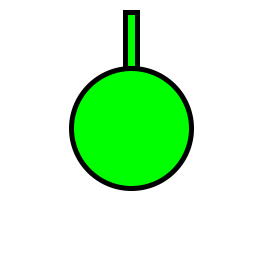
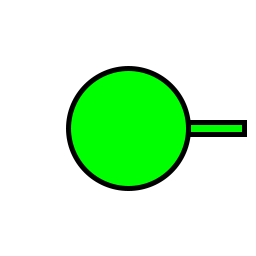
can shoot

Changed region(s): [[0.25, 0.0312, 0.9688, 0.75]]

diff --git a/Assets/BackgroundScript.cs b/Assets/BackgroundScript.cs
@@ -24,19 +24,19 @@ public class BackgroundScript : MonoBehaviour
             if (Mathf.Abs(player.transform.position.x - position[i, j].x) < 0.2f &&
                 Mathf.Abs(player.transform.position.y - position[i, j].y) < 0.2f)
             {
-                transform.position = new Vector3(position[i, j].x, position[i, j].y, 0);
+                transform.position = new Vector3(position[i, j].x, position[i, j].y, 10);
                 NewPosition(position, i, j, 1);
             }
 
             else if (Mathf.Abs(player.transform.position.x - position[i, j].x) < 0.2f)
             {
-                transform.position = new Vector3(position[i, j].x, transform.position.y, 0);
+                transform.position = new Vector3(position[i, j].x, transform.position.y, 10);
                 NewPosition(position, -1, j, 2);
             }
 
             else if (Mathf.Abs(player.transform.position.y - position[i, j].y) < 0.2f)
             {
-                transform.position = new Vector3(transform.position.x, position[i, j].y, 0);
+                transform.position = new Vector3(transform.position.x, position[i, j].y, 10);
                 NewPosition(position, i, -1, 2);
             }
         }

diff --git a/Assets/GoroxScript.cs b/Assets/GoroxScript.cs
@@ -7,9 +7,9 @@ using UnityEngine;
 public class GoroxScript : MonoBehaviour
 {
     public Rigidbody2D rb2D;
-    public GameObject bullet;
     private float speed = 10f;
     private float resist = 0.98f;
+
 
     void Start()
     {
@@ -19,7 +19,6 @@ public class GoroxScript : MonoBehaviour
     {
         Move();
         Rotate();
-        Shoot();
     }
 
 
@@ -38,16 +37,12 @@ public class GoroxScript : MonoBehaviour
     private void Rotate()
     {
         var position = Input.mousePosition - new Vector3(Screen.width / 2, Screen.height / 2, 0);
-        var rotation = Mathf.Atan(position.y / position.x) * 180 / Mathf.PI + 90;
-        if (position.x >= 0)
-            rotation -= 180;
+        var rotation = Mathf.Atan(position.y / position.x) * 180 / Mathf.PI;
+        if (position.x < 0)
+            rotation += 180;
         transform.rotation = Quaternion.Euler(0, 0, rotation);
     }
 
 
-    private void Shoot()
-    {
-        if (Input.GetMouseButton(0))
-            Instantiate(bullet, transform.position, transform.rotation);
-    }
+
 }

diff --git a/Assets/BulletScript.cs b/Assets/BulletScript.cs
@@ -1,19 +1,29 @@
+using System;
 using System.Collections;
 using System.Collections.Generic;
+using System.Reflection.Emit;
+using Unity.Mathematics;
 using UnityEngine;
 
 public class BulletScript : MonoBehaviour
 {
     public Rigidbody2D rb2D;
     public int speed = 100;
-
-    void Start()
-    {
-
-    }
+    public float liveTime = 5;
+    private float time;
 
     void Update()
     {
-        rb2D.AddForce(new Vector2(Mathf.Sin(transform.rotation.z)*speed,Mathf.Cos(transform.rotation.z)*speed));
+        rb2D.AddForce(new Vector2(Mathf.Cos(transform.rotation.eulerAngles.z * Mathf.PI / 180) * speed,
+            Mathf.Sin(transform.rotation.eulerAngles.z * Mathf.PI / 180) * speed));
+        if (time > liveTime)
+            Destroy(gameObject);
+        time += Time.deltaTime;
+    }
+
+    private void OnCollisionEnter2D(Collision2D other)
+    {
+        if (other.gameObject.name == "GameObject")
+            Destroy(gameObject);
     }
 }

diff --git a/Assets/GunScript.cs b/Assets/GunScript.cs
@@ -1,0 +1,31 @@
+using System.Collections;
+using System.Collections.Generic;
+using JetBrains.Annotations;
+using UnityEngine;
+
+public class GunScript : MonoBehaviour
+{
+    public GameObject bullet;
+    public float Reload;
+    private float timer;
+
+    void Start()
+    {
+    }
+
+    // Update is called once per frame
+    void Update()
+    {
+        Shoot();
+    }
+
+    private void Shoot()
+    {
+        timer += Time.deltaTime;
+        if (Input.GetMouseButton(0) && timer > Reload)
+        {
+            Instantiate(bullet, transform.position, gameObject.GetComponentInParent<Transform>().rotation);
+            timer = 0;
+        }
+    }
+}
